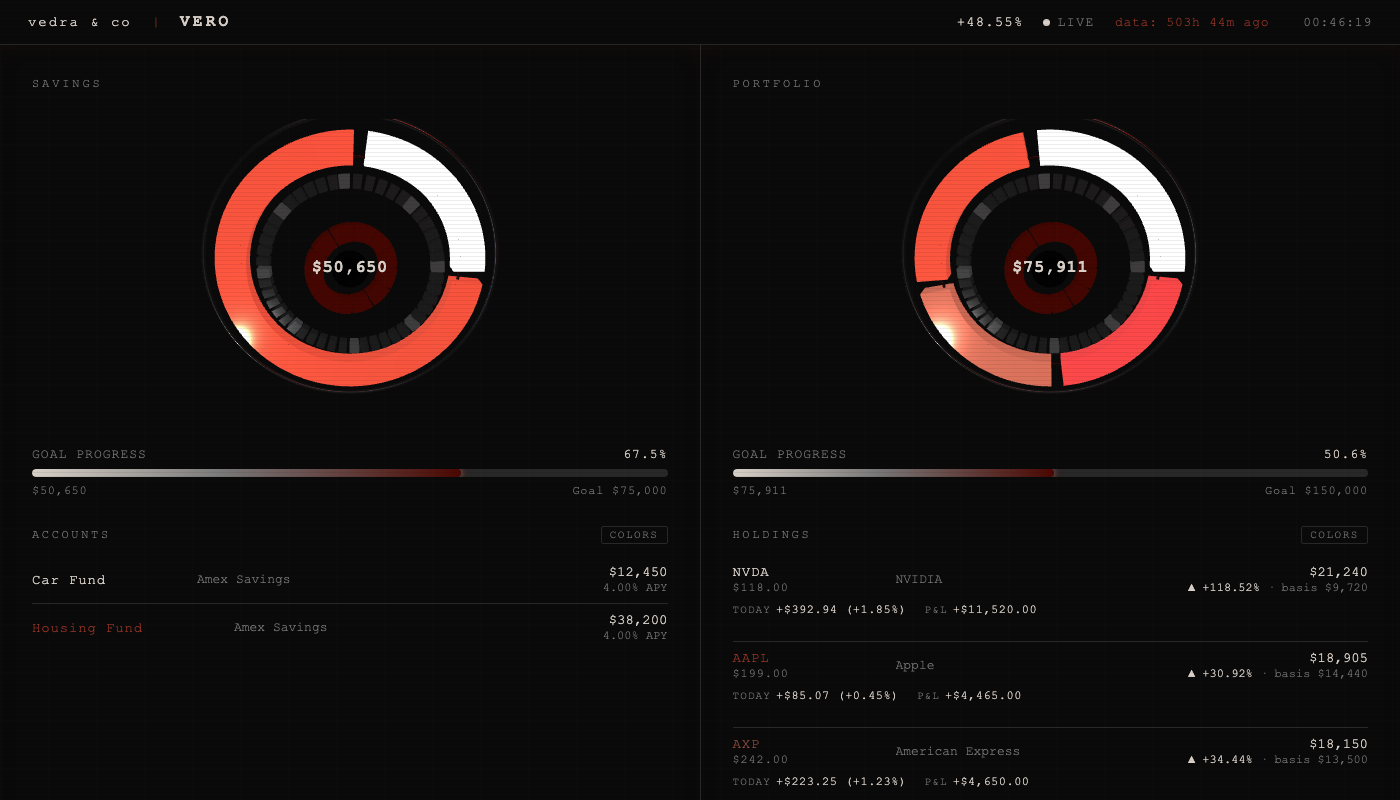
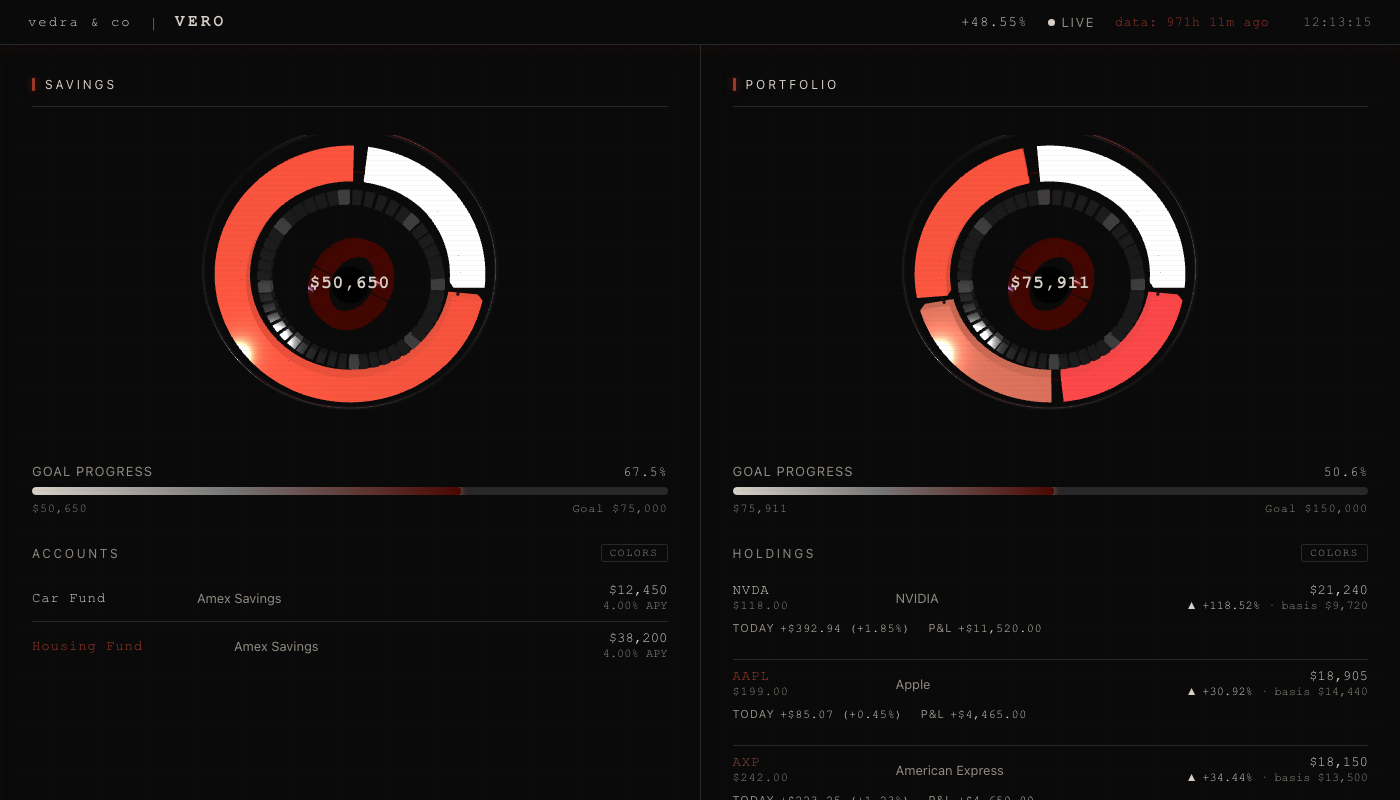
Dashboard UI update

diff --git a/dashboard.html b/dashboard.html
@@ -11,20 +11,33 @@
   --bg:     #0a0a0a;
   --border: #282828;
   --text:   #d8d0c8;
-  --dim:    #787878;
+  --dim:    #928c84;
   --cream:  #e6e1dc;
   --tan:    #d8d0c8;
   --gold:   #8b4a3a;
   --orange: #a03828;
-  --neg:    #6e2020;
-  --font:   'Courier New', Courier, monospace;
+  --neg:    #b65548;
+  --font-mono: 'Courier New', Courier, monospace;
+  --font-sans: -apple-system, BlinkMacSystemFont, 'Segoe UI', 'Helvetica Neue', system-ui, sans-serif;
+  --font:   var(--font-mono);              /* legacy alias */
 }
 
 html, body {
   width: 100%; min-height: 100%;
   background: var(--bg);
   color: var(--text);
-  font-family: var(--font);
+  font-family: var(--font-sans);
+  -webkit-font-smoothing: antialiased;
+  text-rendering: optimizeLegibility;
+}
+
+/* Numeric / tabular data keeps the monospace identity */
+.mono, .panel-value, .wl-price, .dr-left, .dr-right, .dr-sub,
+.hm-val, .hm-pos, .hm-neg, .an-ticker, .an-m-val,
+.progress-meta .pct, .progress-foot, #header-gain, #header-time,
+#header-staleness, #header-title, #header-brand {
+  font-family: var(--font-mono);
+  font-variant-numeric: tabular-nums;
 }
 
 /* ── Neo-grid overlay ───────────────────────────────────────────────────── */
@@ -32,8 +45,8 @@ body::before {
   content: ''; position: fixed; inset: 0;
   pointer-events: none; z-index: 1;
   background:
-    linear-gradient(rgba(200,190,180,0.012) 1px, transparent 1px),
-    linear-gradient(90deg, rgba(200,190,180,0.012) 1px, transparent 1px);
+    linear-gradient(rgba(200,190,180,0.006) 1px, transparent 1px),
+    linear-gradient(90deg, rgba(200,190,180,0.006) 1px, transparent 1px);
   background-size: 48px 48px;
 }
 
@@ -42,8 +55,8 @@ body::after {
   content: ''; position: fixed; inset: 0;
   pointer-events: none; z-index: 9999;
   background: repeating-linear-gradient(
-    0deg, transparent 0, transparent 3px,
-    rgba(0,0,0,0.07) 3px, rgba(0,0,0,0.07) 4px
+    0deg, transparent 0, transparent 4px,
+    rgba(0,0,0,0.035) 4px, rgba(0,0,0,0.035) 5px
   );
 }
 
@@ -59,21 +72,21 @@ body::after {
 }
 
 @keyframes akira-glitch {
-  0%, 88%, 100% { transform: translateX(0); text-shadow: none; clip-path: none; }
-  89%  { transform: translateX(-3px);
+  0%, 92%, 100% { transform: translateX(0); text-shadow: none; clip-path: none; }
+  93%  { transform: translateX(-1.5px);
          clip-path: polygon(0 15%, 100% 15%, 100% 38%, 0 38%);
-         text-shadow: 3px 0 var(--gold); }
-  90%  { transform: translateX(3px);
+         text-shadow: 1.5px 0 var(--gold); }
+  94%  { transform: translateX(1.5px);
          clip-path: polygon(0 55%, 100% 55%, 100% 78%, 0 78%);
-         text-shadow: -3px 0 var(--orange); }
-  91%  { transform: translateX(0); clip-path: none; text-shadow: none; }
+         text-shadow: -1.5px 0 var(--orange); }
+  95%  { transform: translateX(0); clip-path: none; text-shadow: none; }
 }
 
 #header-title {
   font-size: 16px; font-weight: bold;
   letter-spacing: 0.20em; color: var(--tan);
   pointer-events: none;
-  animation: akira-glitch 5s ease-in-out infinite;
+  animation: akira-glitch 14s ease-in-out infinite;
 }
 
 #header-gain {
@@ -133,11 +146,18 @@ body::after {
 .panel--full { grid-column: 1 / -1; }
 
 .panel-header {
-  display: flex; justify-content: flex-start; align-items: baseline; gap: 16px;
+  display: flex; justify-content: flex-start; align-items: center; gap: 14px;
+  padding-bottom: 14px; border-bottom: 1px solid var(--border);
 }
 .panel-label {
+  display: flex; align-items: center; gap: 10px;
   font-size: 12px; letter-spacing: 0.24em;
-  color: var(--dim); text-transform: uppercase;
+  color: var(--text); text-transform: uppercase;
+}
+.panel-label::before {
+  content: ''; width: 3px; height: 13px;
+  background: var(--orange); border-radius: 1px;
+  box-shadow: 0 0 8px rgba(160,56,40,0.6);
 }
 .panel-value {
   font-size: 32px; color: var(--tan);
@@ -285,25 +305,31 @@ body::after {
   transition: color 0.15s, border-color 0.15s;
 }
 .wl-tf:hover  { color: var(--tan);    border-color: var(--tan); }
-.wl-tf.active { color: #4C0701; border-color: #4C0701; }
+.wl-tf.active {
+  color: var(--cream); border-color: var(--orange);
+  background: rgba(160,56,40,0.16);
+}
+.wl-tf:focus-visible, .legend-btn:focus-visible {
+  outline: 1px solid var(--orange); outline-offset: 2px;
+}
 
 .wl-row {
   display: grid;
-  grid-template-columns: minmax(120px, 1.4fr) 110px 190px 1fr 220px;
-  align-items: center; gap: 20px; padding: 13px 0;
+  grid-template-columns: minmax(140px, 1.6fr) 120px minmax(150px, 1fr) 220px;
+  align-items: center; gap: 24px; padding: 14px 0;
   border-bottom: 1px solid var(--border);
 }
 .wl-row:last-child { border-bottom: none; }
 
-.wl-name  { font-size: 14px; color: var(--tan); letter-spacing: 0.06em; }
-.wl-tick  { font-size: 12px; color: var(--dim); letter-spacing: 0.10em; margin-top: 3px; }
-.wl-price { font-size: 16px; color: var(--tan); letter-spacing: 0.04em; font-weight: bold; }
+.wl-name  { font-size: 14px; color: var(--tan); letter-spacing: 0.01em; }
+.wl-tick  { font-family: var(--font-mono); font-size: 11px; color: var(--dim); letter-spacing: 0.12em; margin-top: 4px; }
+.wl-price { font-size: 16px; color: var(--tan); letter-spacing: 0.02em; font-weight: bold; }
 
-.wl-signal         { font-size: 13px; letter-spacing: 0.10em; }
-.wl-signal.BULLISH { color: #00d56f; }
-.wl-signal.BEARISH { color: #d71200; }
-.wl-signal.NEUTRAL { color: #4C0701; }
-.wl-reason  { font-size: 12px; color: var(--dim); letter-spacing: 0.06em; margin-top: 3px; }
+.wl-signal         { font-size: 12px; letter-spacing: 0.16em; text-transform: uppercase; font-weight: 600; }
+.wl-signal.BULLISH { color: #5fbf8f; }
+.wl-signal.BEARISH { color: #c2503f; }
+.wl-signal.NEUTRAL { color: #98908a; }
+.wl-reason  { font-size: 12px; color: var(--dim); letter-spacing: 0.01em; margin-top: 4px; line-height: 1.5; }
 .wl-sparkline  { display: block; width: 220px; height: 48px; }
 .hm-sparkline  { display: block; margin-left: auto; opacity: 0.82; }
 
@@ -340,7 +366,7 @@ body::after {
   text-transform: uppercase;
   margin-bottom: 6px;
 }
-#wl-tooltip .tt-desc { color: var(--dim); }
+#wl-tooltip .tt-desc { color: var(--dim); letter-spacing: 0.01em; line-height: 1.6; }
 .wl-name { cursor: pointer; }
 .wl-name.active-analysis { color: #4C0701; }
 
@@ -348,7 +374,7 @@ body::after {
 .an-empty  { font-size: 13px; color: var(--dim); letter-spacing: 0.10em; padding: 28px 0; text-align: center; }
 .an-header { display: flex; align-items: baseline; gap: 14px; flex-wrap: wrap; margin-bottom: 22px; }
 .an-ticker { font-size: 22px; color: var(--tan); letter-spacing: 0.12em; font-weight: bold; }
-.an-label  { font-size: 14px; color: var(--text); letter-spacing: 0.06em; }
+.an-label  { font-size: 14px; color: var(--text); letter-spacing: 0.01em; }
 .an-sector { font-size: 11px; color: var(--gold); letter-spacing: 0.16em; text-transform: uppercase; margin-left: auto; }
 .an-tf-bar { display: flex; gap: 5px; }
 #an-chart-wrap { position: relative; width: 100%; height: 140px; margin-bottom: 28px; }
@@ -361,7 +387,7 @@ body::after {
 .an-m-pos   { color: var(--tan); }
 .an-m-neg   { color: var(--neg); }
 .an-m-neu   { color: var(--dim); }
-.an-desc    { font-size: 13px; color: var(--dim); letter-spacing: 0.04em; line-height: 1.65; border-top: 1px solid var(--border); padding-top: 20px; margin-top: 22px; }
+.an-desc    { font-size: 13px; color: var(--dim); letter-spacing: 0.01em; line-height: 1.7; border-top: 1px solid var(--border); padding-top: 20px; margin-top: 22px; max-width: 78ch; }
 
 /* ── Scrollbar ──────────────────────────────────────────────────────────── */
 ::-webkit-scrollbar { width: 3px; }
@@ -733,10 +759,11 @@ function build3DRing(containerId, labels, values, totalValue, colors) {
   let particleAlpha = 0;
 
   const tip = document.createElement('div');
-  tip.style.cssText = "position:absolute;pointer-events:none;background:#050c10;" +
-    "border:1px solid #004455;color:#d8d0c8;font-family:'Courier New',monospace;" +
+  tip.style.cssText = "position:absolute;pointer-events:none;background:#120d10;" +
+    "border:1px solid #282828;color:#d8d0c8;font-family:'Courier New',monospace;" +
+    "font-variant-numeric:tabular-nums;" +
     "font-size:12px;letter-spacing:0.08em;padding:7px 12px;border-radius:2px;" +
-    "opacity:0;transition:opacity 0.15s;box-shadow:0 0 10px rgba(76,7,1,0.2);" +
+    "opacity:0;transition:opacity 0.15s;box-shadow:0 0 14px rgba(160,56,40,0.18);" +
     "z-index:10;white-space:nowrap;";
   container.appendChild(tip);
 
@@ -744,8 +771,8 @@ function build3DRing(containerId, labels, values, totalValue, colors) {
   const centerEl = document.createElement('div');
   centerEl.className = 'chart-center';
   centerEl.innerHTML =
-    `<div id="${containerId}-cv" style="font-size:17px;letter-spacing:0.04em;color:var(--tan);font-weight:bold">${fmt$(totalValue)}</div>` +
-    `<div id="${containerId}-cs" style="font-size:10px;letter-spacing:0.12em;color:var(--dim);margin-top:3px"></div>`;
+    `<div id="${containerId}-cv" style="font-family:var(--font-mono);font-variant-numeric:tabular-nums;font-size:18px;letter-spacing:0.04em;color:var(--tan);font-weight:bold">${fmt$(totalValue)}</div>` +
+    `<div id="${containerId}-cs" style="font-size:10px;letter-spacing:0.14em;color:var(--dim);margin-top:4px;text-transform:uppercase"></div>`;
   container.appendChild(centerEl);
   const centerVal = document.getElementById(containerId + '-cv');
   const centerSub = document.getElementById(containerId + '-cs');
@@ -977,7 +1004,7 @@ function renderSavings() {
 // ── Digit flicker ────────────────────────────────────────────────────────────
 function scheduleFlicker(el) {
   if (REDUCED) return;
-  const delay = 4000 + Math.random() * 5000;
+  const delay = 8000 + Math.random() * 8000;
   setTimeout(() => {
     el.style.opacity = '0.3';
     setTimeout(() => { el.style.opacity = ''; scheduleFlicker(el); }, 55);
@@ -1127,7 +1154,6 @@ function renderWatchlist() {
         <div class="wl-signal ${escapeHTML(w.signal)}">${SIGNAL_ICON[w.signal] || '~'} ${escapeHTML(w.signal)}</div>
         <div class="wl-reason">${escapeHTML(w.reason || '')}</div>
       </div>
-      <div></div>
       <canvas class="wl-sparkline" id="wl-canvas-${i}"></canvas>
     </div>
   `).join('');
@@ -1184,8 +1210,9 @@ function _attachChartTooltip(wrap, prices, W) {
   if (!tip) {
     tip = document.createElement('div');
     tip.className = 'an-tip';
-    tip.style.cssText = 'position:absolute;pointer-events:none;background:#050c10;' +
-      'border:1px solid #d8d0c8;color:#d8d0c8;font-family:"Courier New",monospace;' +
+    tip.style.cssText = 'position:absolute;pointer-events:none;background:#120d10;' +
+      'border:1px solid #3a3330;color:#d8d0c8;font-family:"Courier New",monospace;' +
+      'font-variant-numeric:tabular-nums;' +
       'font-size:11px;letter-spacing:0.08em;padding:5px 10px;border-radius:2px;' +
       'opacity:0;transition:opacity 0.1s;white-space:nowrap;z-index:20;' +
       'box-shadow:0 0 10px rgba(216,208,200,0.15);text-shadow:0 0 8px rgba(216,208,200,0.3);';